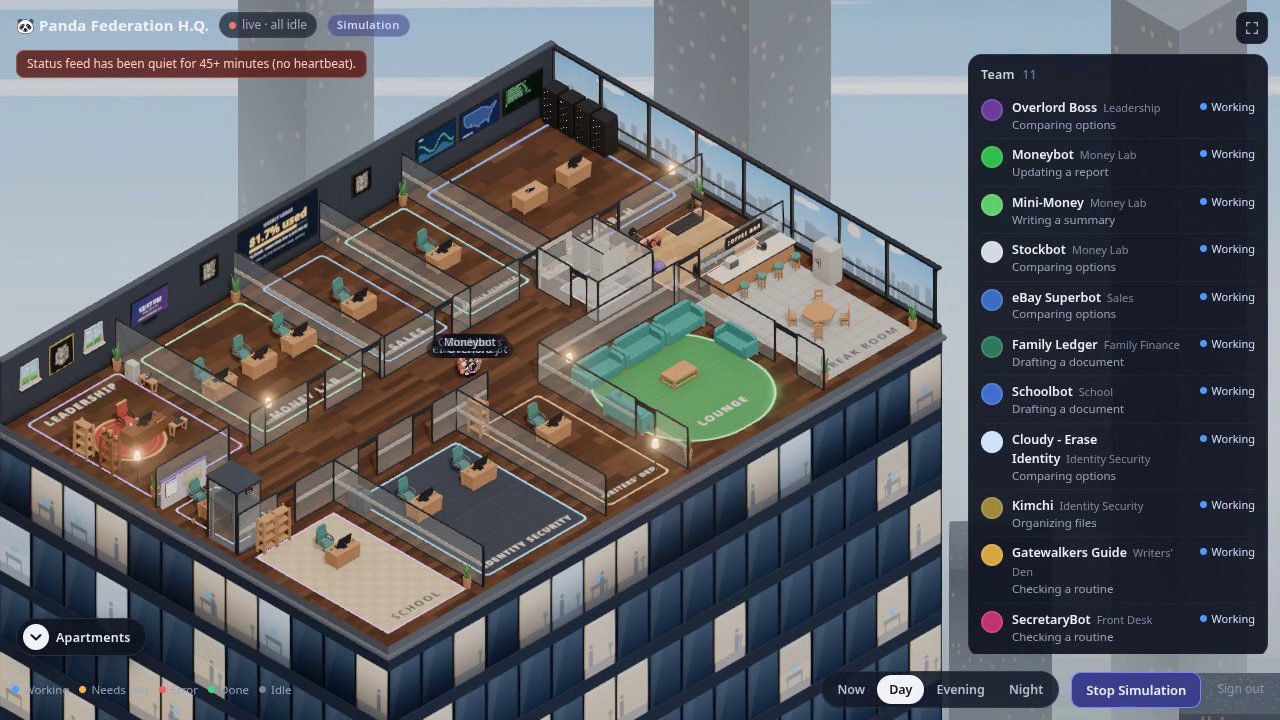
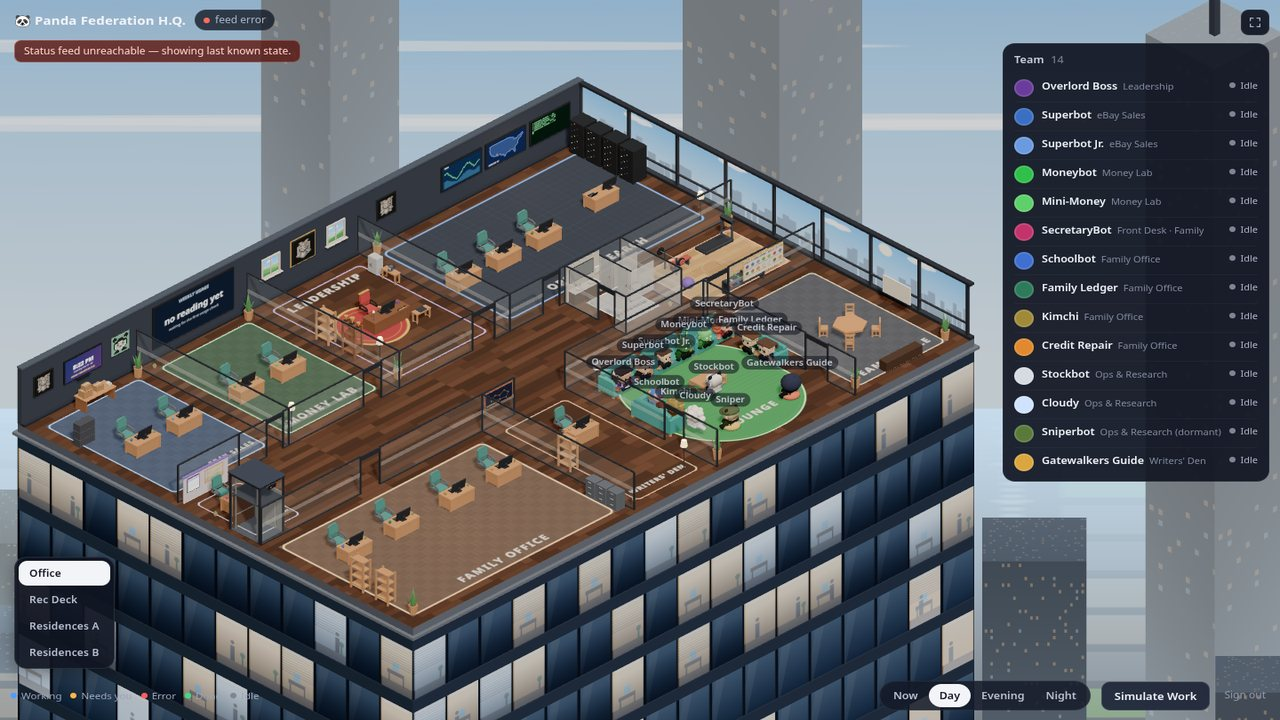
Describe Office v5 on the catalog pages. Do not deploy.
Updates the homepage feature, apps card, inventory, WebMCP catalog,
llms.txt mirrors, and JSON-LD so visible and machine-readable text match.
Stills are refreshed from the v5 office and Rec Deck screenshots.

diff --git a/apps.html b/apps.html
@@ -150,7 +150,7 @@
               "@type": "SoftwareApplication",
               "name": "Panda Federation H.Q.",
               "applicationCategory": "DeveloperApplication",
-              "description": "Live 3D office where each bot on a team shows a real-time status chip (Three.js + Cloudflare Worker).",
+              "description": "Live 3D office for the 14-bot Panda Federation team, with real-time status chips. Four floors: Office (desks grouped by team, including a Credit Repair desk in Family Office), Rec Deck (café, pool with diving board, tennis, game room, TV lounge), and Residences A and B (14 themed apartments). Vite + Three.js on a Cloudflare Worker.",
               "url": "https://panda-federation-hq.pandafederation.workers.dev",
               "publisher": {
                 "@id": "https://pandafederation.com/#org"
@@ -195,7 +195,7 @@
     <h1>Local-first tools, plus the H.Q.</h1>
     <p>Steel acts. Watchdog watches. Spirit thinks. The rest of the modules live here too, with every verified repo, store, and directory link.</p>
   </header>
-  <div class="grid"><article class="card"><div class="meta"><span class="pill muted">App</span></div><h3>Steel Panda</h3><p>Run every shell script in a folder, log each exit code, fail if any task fails. Local Bash, no network.</p><div class="links"><a href="https://github.com/pandadad0214/Steel_Panda" rel="noopener">GitHub</a> <a href="https://devhunt.org/tool/steel-panda" rel="noopener">DevHunt</a></div></article><article class="card"><div class="meta"><span class="pill muted">App</span></div><h3>Watchdog Panda</h3><p>Restart a local process when it disappears, with backoff, a restart cap and a failure hook. Bash only.</p><div class="links"><a href="https://github.com/pandadad0214/Watchdog_Panda" rel="noopener">GitHub</a> <a href="https://devhunt.org/tool/watchdog-panda" rel="noopener">DevHunt</a></div></article><article class="card"><div class="meta"><span class="pill muted">App</span></div><h3>Hidden AI Instructions Watch</h3><p>Free scanner and evidence log for web pages that hide text from people but address AI agents.</p><div class="links"><a href="https://github.com/pandadad0214/hidden-ai-instructions-watch" rel="noopener">GitHub</a> <a href="https://apify.com/pandadad0214/hidden-ai-instructions-scanner" rel="noopener">Apify Store</a> <a href="https://devhunt.org/tool/hidden-ai-instructions-watch" rel="noopener">DevHunt</a></div></article><article class="card"><div class="meta"><span class="pill muted">App</span></div><h3>Manual Remake</h3><p>Rewrite a confusing manual (PDF or photos) into a clear, printable English PDF. A free sample and paid remake editions are both on the Apify Store listing; the free skill is on Agensi.</p><div class="links"><a href="https://github.com/pandadad0214/manual-remake" rel="noopener">GitHub</a> <a href="https://apify.com/pandadad0214/manual-remake" rel="noopener">Apify Store</a> <a href="https://agensi.io/skills/manual-remake-confusing-manual-to-clear-pdf" rel="noopener">Agensi</a> <a href="https://devhunt.org/tool/manual-remake" rel="noopener">DevHunt</a></div><div class="editions"><h4>Switch editions</h4><ul><li><strong>Free sample</strong> — Apify Store — start a run with Free sample ticked, or with files and links left empty; no key required. <a href="https://apify.com/pandadad0214/manual-remake">Open</a></li><li><strong>Text-only remake</strong> — Paid Apify edition. Upload your manual, add your key, and turn off picture reuse and cleaning. List rate is on the Apify Tools card and on pricing.md; the Store page is authoritative. <a href="https://apify.com/pandadad0214/manual-remake">Open</a></li><li><strong>Standard remake</strong> — Paid Apify edition with picture reuse and cleaning on. List rate is on the Apify Tools card and on pricing.md; the Store page is authoritative. <a href="https://apify.com/pandadad0214/manual-remake">Open</a></li><li><strong>Agensi skill</strong> — Free skill that points at the same tool. <a href="https://agensi.io/skills/manual-remake-confusing-manual-to-clear-pdf">Open</a></li></ul></div></article><article class="card"><div class="meta"><span class="pill muted">App</span></div><h3>Quiet File Team</h3><p>Free Bash kit that lets several AI bots share one computer through files: task queue, pair notes, early exit. A paid setup-kit generator is on the Apify Store and Agensi; a free MCP companion explains and checks a team.</p><div class="links"><a href="quiet-file-team/" rel="noopener">Product page</a> <a href="https://github.com/pandadad0214/quiet-file-team" rel="noopener">GitHub</a> <a href="quiet-file-team-mcp/" rel="noopener">MCP product page</a> <a href="https://github.com/pandadad0214/quiet-file-team-mcp" rel="noopener">MCP repo</a> <a href="https://apify.com/pandadad0214/quiet-file-team-setup" rel="noopener">Apify Store</a> <a href="https://agensi.io/skills/quiet-file-team-setup-kit" rel="noopener">Agensi</a></div><div class="editions"><h4>Switch editions</h4><ul><li><strong>Free kit</strong> — product page on this site, plus the GitHub repo — clone and follow the README. <a href="quiet-file-team/">Open</a></li><li><strong>Free MCP companion</strong> — product page on this site, plus the GitHub repo. <a href="quiet-file-team-mcp/">Open</a></li><li><strong>Setup kit generator</strong> — Paid Apify Actor that builds a configured starter ZIP. List rate is on the Apify Tools card and on pricing.md; the Store page is authoritative. <a href="https://apify.com/pandadad0214/quiet-file-team-setup">Open</a></li><li><strong>Agensi skill</strong> — Paid skill for the same setup kit. Live price is on the Agensi listing. <a href="https://agensi.io/skills/quiet-file-team-setup-kit">Open</a></li></ul></div></article><article class="card"><div class="meta"><span class="pill muted">App</span></div><h3>Panda Federation H.Q.</h3><p>Live 3D office where each bot on a team shows a real-time status chip (Three.js + Cloudflare Worker).</p><div class="links"><a href="https://github.com/pandadad0214/panda-federation-hq" rel="noopener">GitHub</a> <a href="https://panda-federation-hq.pandafederation.workers.dev" rel="noopener">Live demo</a> <a href="https://devhunt.org/tool/panda-federation-hq" rel="noopener">DevHunt</a> <a href="https://alternativeto.net/software/panda-federation-h-q" rel="noopener">AlternativeTo</a></div></article><article class="card"><div class="meta"><span class="pill muted">App</span></div><h3>Spirit Panda</h3><p>Sovereign local-first AI companion with identity, memory, and adaptive prosody.</p><div class="links"><a href="https://github.com/pandadad0214/Spirit_Panda" rel="noopener">GitHub</a></div></article></div>
+  <div class="grid"><article class="card"><div class="meta"><span class="pill muted">App</span></div><h3>Steel Panda</h3><p>Run every shell script in a folder, log each exit code, fail if any task fails. Local Bash, no network.</p><div class="links"><a href="https://github.com/pandadad0214/Steel_Panda" rel="noopener">GitHub</a> <a href="https://devhunt.org/tool/steel-panda" rel="noopener">DevHunt</a></div></article><article class="card"><div class="meta"><span class="pill muted">App</span></div><h3>Watchdog Panda</h3><p>Restart a local process when it disappears, with backoff, a restart cap and a failure hook. Bash only.</p><div class="links"><a href="https://github.com/pandadad0214/Watchdog_Panda" rel="noopener">GitHub</a> <a href="https://devhunt.org/tool/watchdog-panda" rel="noopener">DevHunt</a></div></article><article class="card"><div class="meta"><span class="pill muted">App</span></div><h3>Hidden AI Instructions Watch</h3><p>Free scanner and evidence log for web pages that hide text from people but address AI agents.</p><div class="links"><a href="https://github.com/pandadad0214/hidden-ai-instructions-watch" rel="noopener">GitHub</a> <a href="https://apify.com/pandadad0214/hidden-ai-instructions-scanner" rel="noopener">Apify Store</a> <a href="https://devhunt.org/tool/hidden-ai-instructions-watch" rel="noopener">DevHunt</a></div></article><article class="card"><div class="meta"><span class="pill muted">App</span></div><h3>Manual Remake</h3><p>Rewrite a confusing manual (PDF or photos) into a clear, printable English PDF. A free sample and paid remake editions are both on the Apify Store listing; the free skill is on Agensi.</p><div class="links"><a href="https://github.com/pandadad0214/manual-remake" rel="noopener">GitHub</a> <a href="https://apify.com/pandadad0214/manual-remake" rel="noopener">Apify Store</a> <a href="https://agensi.io/skills/manual-remake-confusing-manual-to-clear-pdf" rel="noopener">Agensi</a> <a href="https://devhunt.org/tool/manual-remake" rel="noopener">DevHunt</a></div><div class="editions"><h4>Switch editions</h4><ul><li><strong>Free sample</strong> — Apify Store — start a run with Free sample ticked, or with files and links left empty; no key required. <a href="https://apify.com/pandadad0214/manual-remake">Open</a></li><li><strong>Text-only remake</strong> — Paid Apify edition. Upload your manual, add your key, and turn off picture reuse and cleaning. List rate is on the Apify Tools card and on pricing.md; the Store page is authoritative. <a href="https://apify.com/pandadad0214/manual-remake">Open</a></li><li><strong>Standard remake</strong> — Paid Apify edition with picture reuse and cleaning on. List rate is on the Apify Tools card and on pricing.md; the Store page is authoritative. <a href="https://apify.com/pandadad0214/manual-remake">Open</a></li><li><strong>Agensi skill</strong> — Free skill that points at the same tool. <a href="https://agensi.io/skills/manual-remake-confusing-manual-to-clear-pdf">Open</a></li></ul></div></article><article class="card"><div class="meta"><span class="pill muted">App</span></div><h3>Quiet File Team</h3><p>Free Bash kit that lets several AI bots share one computer through files: task queue, pair notes, early exit. A paid setup-kit generator is on the Apify Store and Agensi; a free MCP companion explains and checks a team.</p><div class="links"><a href="quiet-file-team/" rel="noopener">Product page</a> <a href="https://github.com/pandadad0214/quiet-file-team" rel="noopener">GitHub</a> <a href="quiet-file-team-mcp/" rel="noopener">MCP product page</a> <a href="https://github.com/pandadad0214/quiet-file-team-mcp" rel="noopener">MCP repo</a> <a href="https://apify.com/pandadad0214/quiet-file-team-setup" rel="noopener">Apify Store</a> <a href="https://agensi.io/skills/quiet-file-team-setup-kit" rel="noopener">Agensi</a></div><div class="editions"><h4>Switch editions</h4><ul><li><strong>Free kit</strong> — product page on this site, plus the GitHub repo — clone and follow the README. <a href="quiet-file-team/">Open</a></li><li><strong>Free MCP companion</strong> — product page on this site, plus the GitHub repo. <a href="quiet-file-team-mcp/">Open</a></li><li><strong>Setup kit generator</strong> — Paid Apify Actor that builds a configured starter ZIP. List rate is on the Apify Tools card and on pricing.md; the Store page is authoritative. <a href="https://apify.com/pandadad0214/quiet-file-team-setup">Open</a></li><li><strong>Agensi skill</strong> — Paid skill for the same setup kit. Live price is on the Agensi listing. <a href="https://agensi.io/skills/quiet-file-team-setup-kit">Open</a></li></ul></div></article><article class="card"><div class="meta"><span class="pill muted">App</span></div><h3>Panda Federation H.Q.</h3><p>Live 3D office for the 14-bot Panda Federation team, with real-time status chips. Four floors: Office (desks grouped by team, including a Credit Repair desk in Family Office), Rec Deck (café, pool with diving board, tennis, game room, TV lounge), and Residences A and B (14 themed apartments). Vite + Three.js on a Cloudflare Worker.</p><div class="links"><a href="https://github.com/pandadad0214/panda-federation-hq" rel="noopener">GitHub</a> <a href="https://panda-federation-hq.pandafederation.workers.dev" rel="noopener">Live demo</a> <a href="https://devhunt.org/tool/panda-federation-hq" rel="noopener">DevHunt</a> <a href="https://alternativeto.net/software/panda-federation-h-q" rel="noopener">AlternativeTo</a></div></article><article class="card"><div class="meta"><span class="pill muted">App</span></div><h3>Spirit Panda</h3><p>Sovereign local-first AI companion with identity, memory, and adaptive prosody.</p><div class="links"><a href="https://github.com/pandadad0214/Spirit_Panda" rel="noopener">GitHub</a></div></article></div>
   <p class="note">Planned, not shipped yet: <a href="https://github.com/pandadad0214/Orchid_Panda">Orchid Panda</a> and <a href="https://github.com/pandadad0214/Mythical_Panda">Mythical Panda</a> (placeholder repos, no code). They will get cards when they have a first release.</p>
 </main>
 <footer class="site">

diff --git a/index.html b/index.html
@@ -198,10 +198,10 @@
     <article class="card"><h3>Writing &amp; launch</h3><p>Notes on dev.to, news on X, and Panda Federation Tools on Product Hunt (launched November 2026).</p><div class="links"><a href="https://dev.to/pandadad0214" rel="noopener">dev.to</a> <a href="https://x.com/PandaFedHQ" rel="noopener">Follow on X: @PandaFedHQ</a> <a href="https://www.producthunt.com/products/panda-federation-tools" rel="noopener">Product Hunt</a></div></article>
   </div>
   <div class="feature-row">
-    <img src="assets/hq-office.jpg" alt="A still from Panda Federation H.Q., a 3D office for a team of bots.">
+    <img src="assets/hq-office.jpg" alt="Still from Panda Federation H.Q. Office v5, showing team desks on the work floor.">
     <div>
       <h2>A live 3D headquarters</h2>
-      <p>Panda Federation H.Q. is a Three.js office where each bot on a team can show a real-time status chip. It is open source and hosted as a public demo.</p>
+      <p>Panda Federation H.Q. is a live 3D office where each of the 14 bots shows a real-time status chip. Four floors: the Office (desks grouped by team, Overlord's office at center back, and a Credit Repair desk in Family Office), the Rec Deck (café kitchen with coffee and soda machines, pool with diving board, tennis court, game room, TV lounge), and Residences A and B (14 apartments themed to each bot). Switch floors from the floor list, Page Up/Page Down, or an elevator click. Open source and password-gated.</p>
       <div class="links"><a href="https://panda-federation-hq.pandafederation.workers.dev" rel="noopener">Open H.Q.</a> <a href="https://github.com/pandadad0214/panda-federation-hq" rel="noopener">GitHub</a> <a href="apps.html" rel="noopener">More apps</a></div>
     </div>
   </div>

diff --git a/css/site.css b/css/site.css
@@ -77,7 +77,7 @@ nav.tabs a[aria-current="page"] {
   z-index: 0;
   background:
     linear-gradient(180deg, rgba(15,20,32,.25), rgba(15,20,32,.82)),
-    url("../assets/hq-still.png") center/cover no-repeat;
+    url("../assets/hq-still.jpg") center/cover no-repeat;
 }
 .hero.no-webgl #hero-canvas { display: none; }
 .hero.webgl-on .hero-fallback { display: none; }
@@ -314,7 +314,7 @@ pre.snippet, .card pre { background: #0b1220; border: 1px solid var(--line); bor
   .hero-fallback {
     background:
       linear-gradient(180deg, rgba(15,20,32,.86), rgba(15,20,32,.96)),
-      url("../assets/hq-still.png") center/cover no-repeat;
+      url("../assets/hq-still.jpg") center/cover no-repeat;
   }
 }
 .card:has(.ask) p, .card.sample p { flex: 0 0 auto; }

diff --git a/index.md b/index.md
@@ -84,7 +84,7 @@ Notes on dev.to, news on X, and Panda Federation Tools on Product Hunt (launched
 
 ## A live 3D headquarters
 
-Panda Federation H.Q. is a Three.js office where each bot on a team can show a real-time status chip. It is open source and hosted as a public demo.
+Panda Federation H.Q. is a live 3D office where each of the 14 bots shows a real-time status chip. Four floors: the Office (desks grouped by team, Overlord's office at center back, and a Credit Repair desk in Family Office), the Rec Deck (café kitchen with coffee and soda machines, pool with diving board, tennis court, game room, TV lounge), and Residences A and B (14 apartments themed to each bot). Switch floors from the floor list, Page Up/Page Down, or an elevator click. Open source and password-gated.
 [Open H.Q.](https://panda-federation-hq.pandafederation.workers.dev) [GitHub](https://github.com/pandadad0214/panda-federation-hq) [More apps](apps.html)
 
 ## Free and paid editions stay linked

diff --git a/apps.md b/apps.md
@@ -47,7 +47,7 @@ App
 
 ### Panda Federation H.Q.
 
-Live 3D office where each bot on a team shows a real-time status chip (Three.js + Cloudflare Worker).
+Live 3D office for the 14-bot Panda Federation team, with real-time status chips. Four floors: Office (desks grouped by team, including a Credit Repair desk in Family Office), Rec Deck (café, pool with diving board, tennis, game room, TV lounge), and Residences A and B (14 themed apartments). Vite + Three.js on a Cloudflare Worker.
 [GitHub](https://github.com/pandadad0214/panda-federation-hq) [Live demo](https://panda-federation-hq.pandafederation.workers.dev) [DevHunt](https://devhunt.org/tool/panda-federation-hq) [AlternativeTo](https://alternativeto.net/software/panda-federation-h-q)App
 
 ### Spirit Panda
